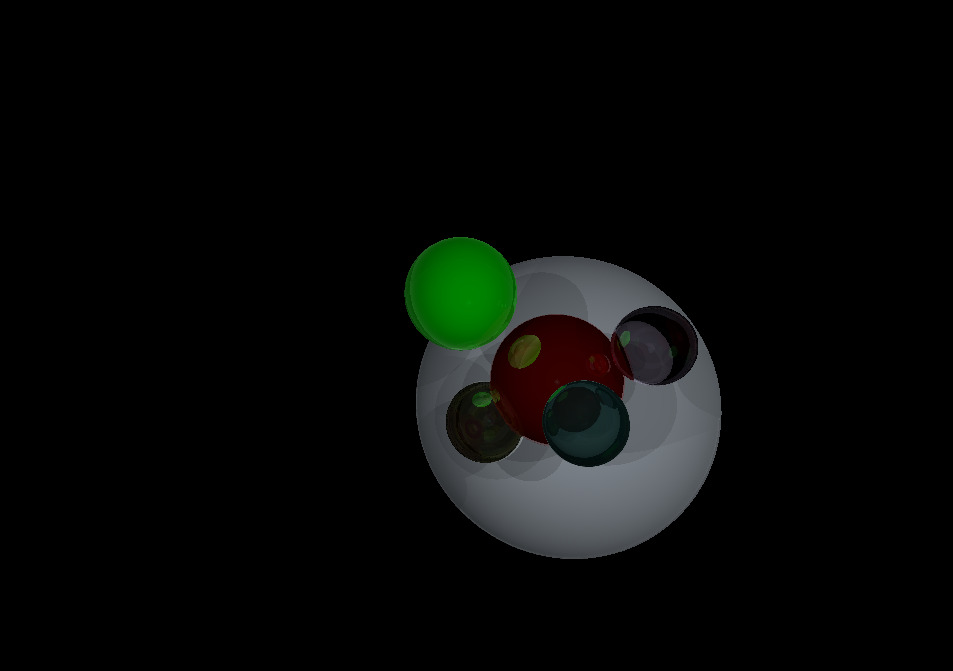
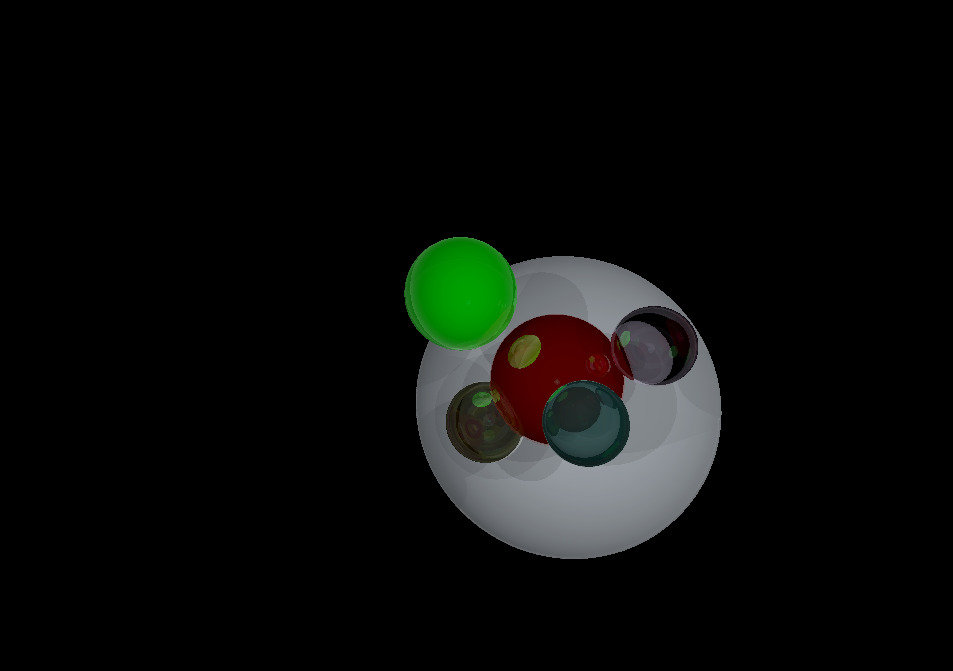
Add a tutorial and an output image

Changed region(s): [[0.426, 0.3577, 0.7608, 0.8346]]

diff --git a/docs/tutorials/gamma_correction/refraction.md b/docs/tutorials/gamma_correction/refraction.md
@@ -1,0 +1,6 @@
+<p align="center">
+  <img src="https://github.com/leonmavr/freestyle_raytracer/blob/master/docs/tutorials/gamma_correction/01.png" alt="01">
+</p>
+<p align="center">
+  <img src="https://github.com/leonmavr/freestyle_raytracer/blob/master/docs/tutorials/gamma_correction/02.png" alt="02">
+</p>
